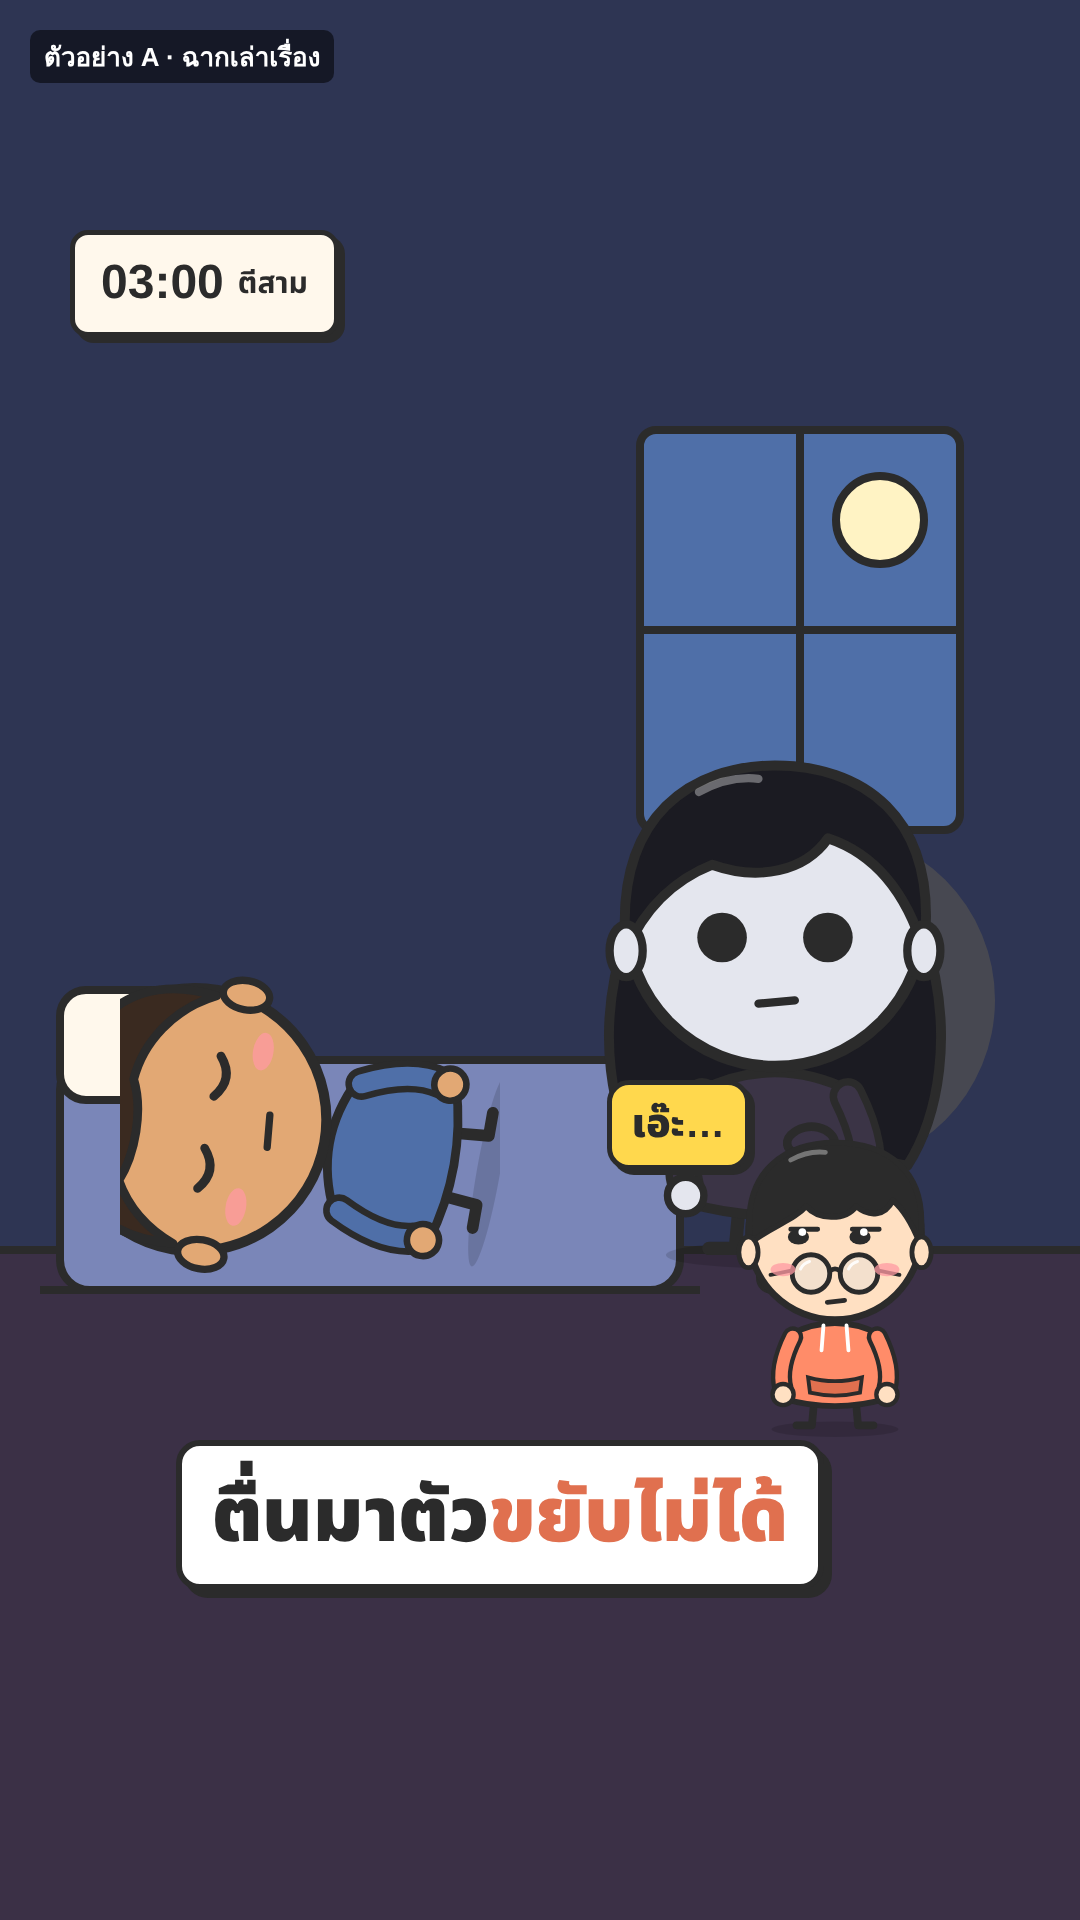
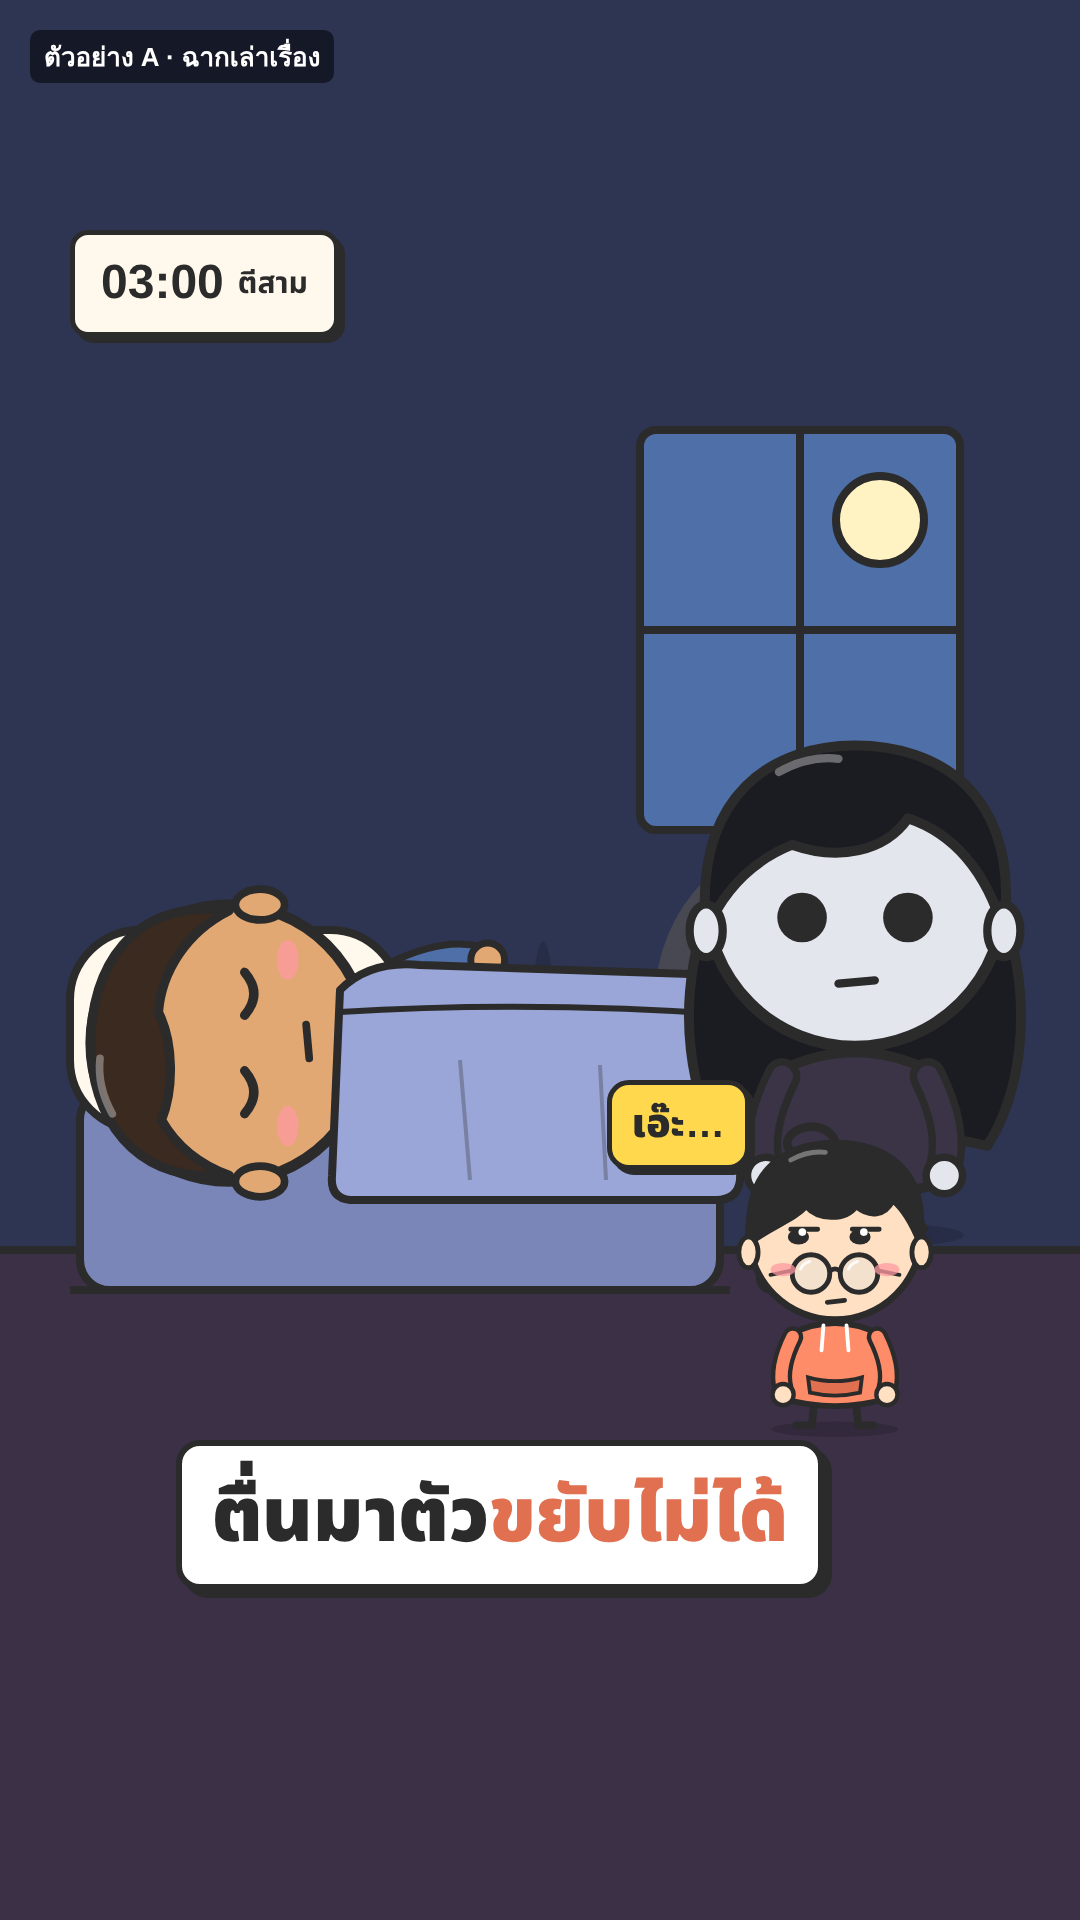
Story mockup A: sleeper lies fully on the pillow under a blanket
Claude-Session: https://claude.ai/code/session_01DyCHHk74skRVQ6M3ophgj1

Changed region(s): [[0.0306, 0.375, 0.9472, 0.6875]]

diff --git a/branding/story-mockup.html b/branding/story-mockup.html
@@ -36,9 +36,10 @@ function roomNight(){
      <rect x="640" y="430" width="320" height="400" rx="16" fill="#4F6FA8"/>
      <path d="M800 430 V830 M640 630 H960" fill="none"/>
      <circle cx="880" cy="520" r="44" fill="#FFF3C4"/>
-     <rect x="60" y="1060" width="620" height="230" rx="30" fill="#7A86B8"/>
-     <rect x="60" y="990" width="170" height="110" rx="26" fill="#FFF8EC"/>
-     <path d="M40 1290 H700" />
+     <rect x="80" y="1090" width="640" height="200" rx="30" fill="#7A86B8"/>
+     <rect x="70" y="930" width="330" height="200" rx="70" fill="#FFF8EC"/>
+     <path d="M100 990 Q235 955 370 990" fill="none" stroke-width="5" opacity=".35"/>
+     <path d="M70 1290 H730" />
      <rect x="760" y="1040" width="130" height="250" rx="12" fill="#5A4A6A"/>
      <rect x="790" y="1000" width="70" height="44" rx="8" fill="#FFD84D"/>
    </g>
@@ -51,10 +52,13 @@ window.render=function(v){
   const f=document.getElementById("f");
   if(v==="a"){
     // ฉากเรื่อง: รูมเมทนอน (ตัวละครใหม่) + เงาตัวหลอน (ghost) + การ์ดนาฬิกา + น้องสงสัยมุมจอ
-    const sleeper=kid({skin:"tan",hair:"short",hairColor:"#3A2A20",top:"#4F6FA8",gl:"none",ah:"none",eye:"sleep",brow:"none",mo:"flat",pocket:false,strings:false,tilt:-80});
+    const sleeper=kid({skin:"tan",hair:"short",hairColor:"#3A2A20",top:"#4F6FA8",gl:"none",ah:"none",eye:"sleep",brow:"none",mo:"flat",pocket:false,strings:false});
     const ghost=kid({skin:"ghost",hair:"long",hairColor:"#1B1B22",top:"#3B3446",gl:"none",ah:"none",eye:"creepy",brow:"none",mo:"flat",pocket:false,strings:false});
     const nong=kid({gl:"down",eye:"side",brow:"none",mo:"flatlow",ah:"droop"});
-    f.innerHTML=roomNight()+put(sleeper,120,760,380)+put(ghost,560,620,430)
+    // คนนอน: หมุนทั้งตัวด้วย CSS (ไม่หมุนใน SVG) หัวจะไม่ถูกตัด แล้วห่มผ้าห่มทับตัว
+    const lying=`<div class="ch" style="left:60px;top:735px;width:400px;height:616px;transform:rotate(-90deg)">${sleeper}</div>`;
+    const blanket=`<svg width="1080" height="1920" style="position:absolute;inset:0"><g transform="translate(40 0)"><path d="M300 990 Q330 960 380 965 L680 975 Q706 978 706 1005 L700 1180 Q698 1200 676 1200 L310 1200 Q290 1198 292 1176Z" fill="#9AA6D8" stroke="#2B2B2B" stroke-width="8" stroke-linejoin="round"/><path d="M300 1012 Q490 1000 700 1015" fill="none" stroke="#2B2B2B" stroke-width="6"/><path d="M420 1060 L430 1180 M560 1065 L566 1180" stroke="#2B2B2B" stroke-width="4" opacity=".3"/></g></svg>`;
+    f.innerHTML=roomNight()+lying+blanket+put(ghost,640,600,430)
       +`<div class="chip"><b>03:00</b><span>ตีสาม</span></div>`
       +`<div class="nong">${nong}</div><div class="bubble">เอ๊ะ…</div>`
       +`<div class="cap"><div>ตื่นมาตัว<span class="y">ขยับไม่ได้</span></div></div>`
